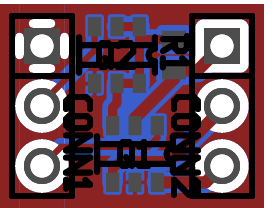
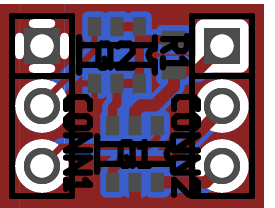
Increased TSOP6 clearances to 10mil. Expanded on the description of pull-up in README.

diff --git a/README.md b/README.md
@@ -4,14 +4,30 @@ One-way 3-state level shifter
 ![Schematic](schematic.png)
 
 This is a design for a DIP breakout for a MOSFET-based unidirectional
-level shifter with non-trivial output current capacity. It consists of a
-complementary pair of MOSFETs in a single TSOP6 package, with the PMOS
-and NMOS acting as high- and low-side switches, respectively. To allow
-the PMOS to be switched by a logic-level voltage, an additional NMOS
-(also TSOP6) and a 100KΩ pull-up (0603) are included at its input.
+level shifter with non-trivial output current capacity and low impedance
+either sourcing or sinking. (This is possibly at a minor cost of some
+speed and/or power consumption; other level shifters exist that are
+probably a better fit if low current or high and/or asymmetrical
+impedance isn't an issue.)
+
+It consists of a complementary pair of MOSFETs in a single TSOP6
+package, with the PMOS and NMOS acting as high- and low-side switches,
+respectively. To allow the PMOS to be switched by a logic-level voltage,
+an additional NMOS (also TSOP6) and a pull-up resistor (0603) are
+included at its input.
 
 The threshold voltages of the NMOSes determine the input logic high;
 there is no pin corresponding to `Vdd` for the input side.
+
+The nominal 100KΩ value for the pull-up reflects the switched voltage
+for the original intended application, which is somewhere between 10V
+and 20V. A smaller pull-up, such as 10KΩ, should be used if the voltage
+is smaller (e.g. less than 10V). The tradeoff is speed versus power
+usage: The high-side switch will take longer to shut off if the
+resistance is higher; if it is lower, more current will be passed
+through the pull-up when the high-side switch is on. If the application
+circuit will be working with a variable voltage, consider how power
+usage and timing are affected at the extremes.
 
 ![Layout](layout.png)
 
